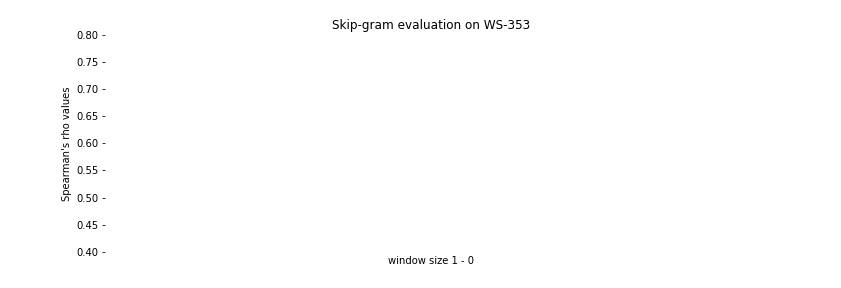
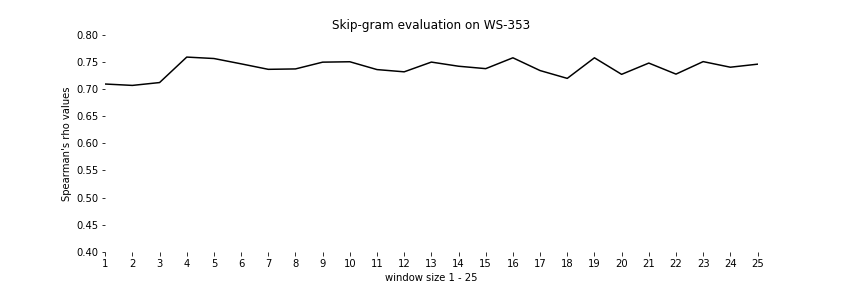
small fix

diff --git a/models/Word2Vec.py b/models/Word2Vec.py
@@ -70,7 +70,7 @@ print(SGNS_similarities)
 rho_SGNS = []
 
 for i in range(len(SGNS_similarities)):
-    rho_CBOW.append(SGNS_similarities[i][1])
+    rho_SGNS.append(SGNS_similarities[i][1])
 
 window_size_SGNS = np.arange(1,len(rho_SGNS)+1,1)
 SGNS_plot, ax_SGNS = plt.subplots()
